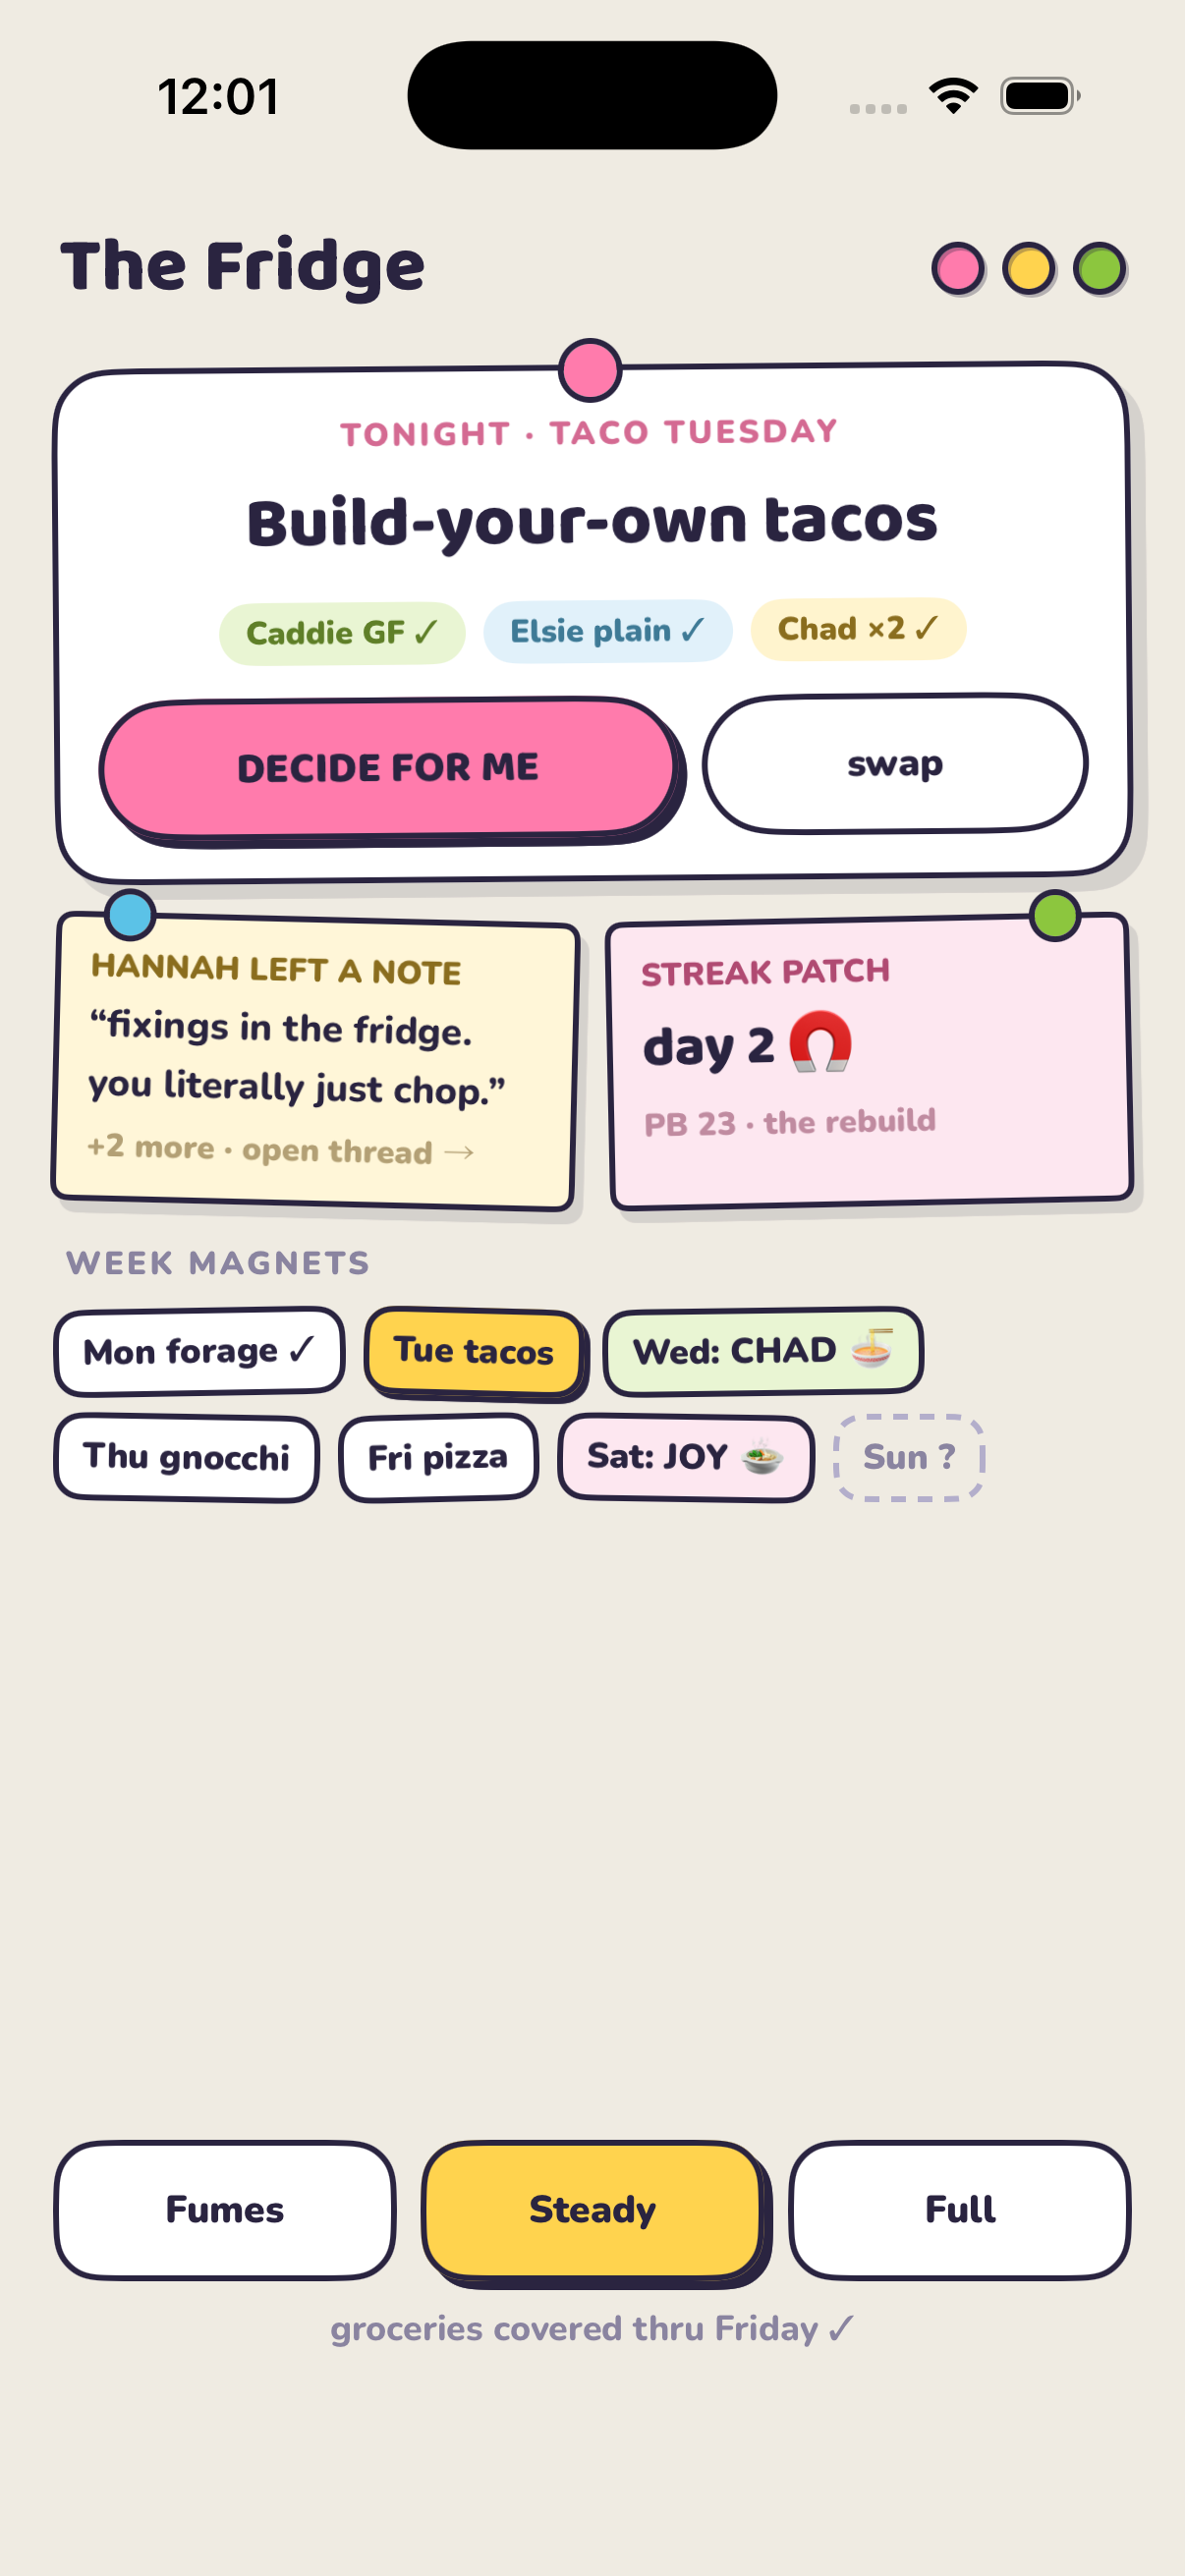
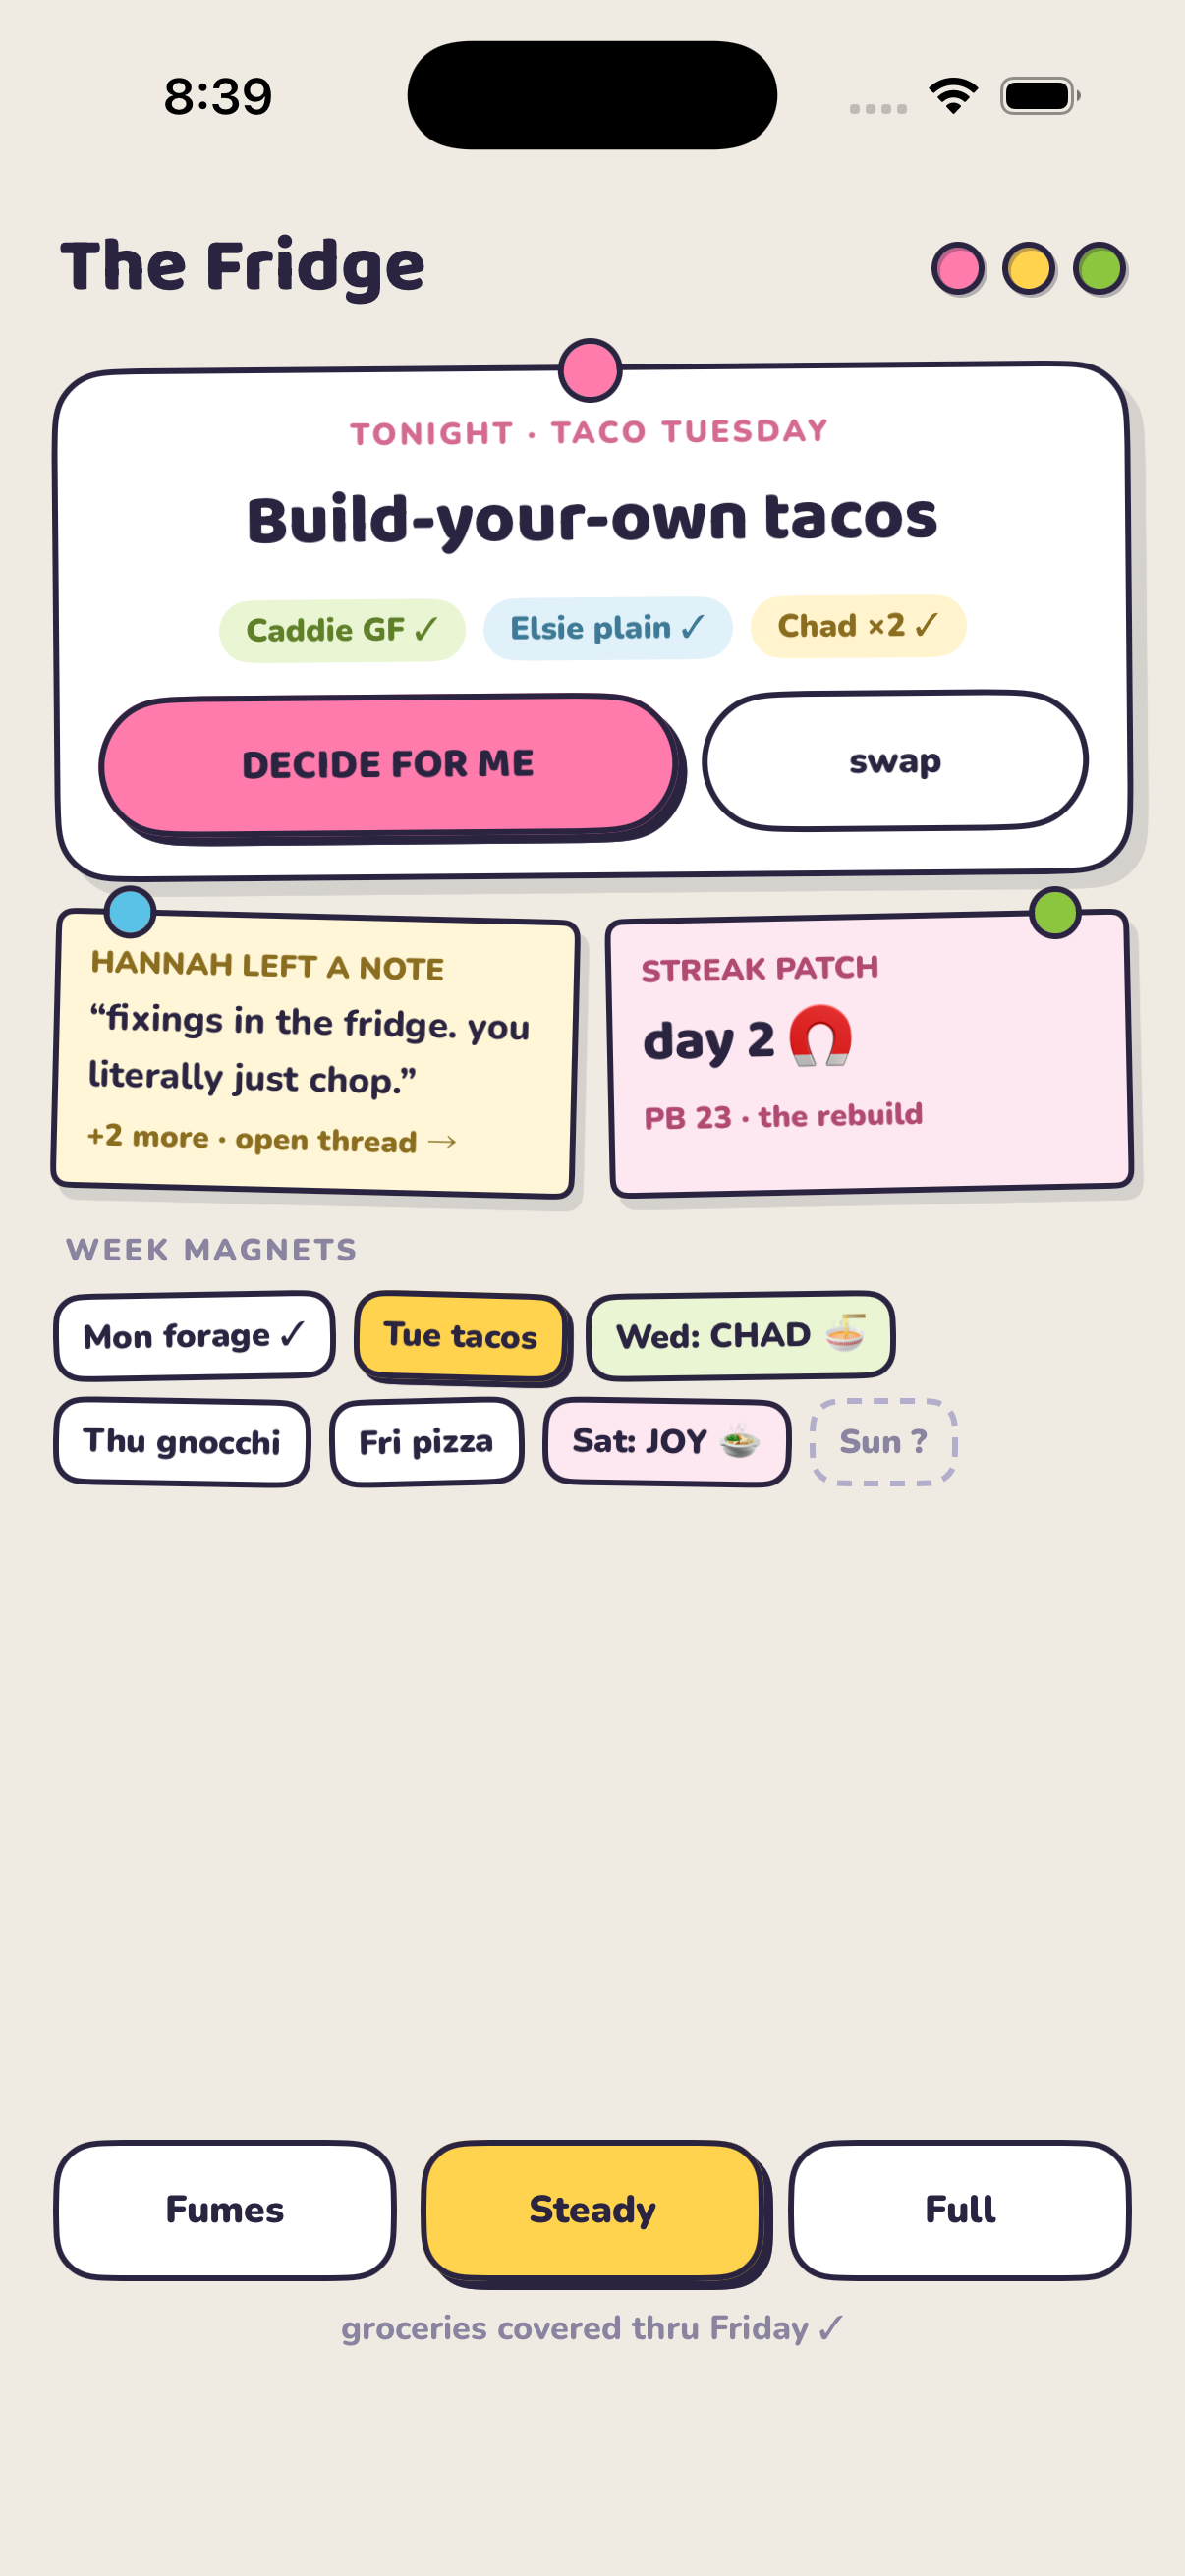
Darken muted labels + streak checkmarks for readability
Mockup's labelMuted values measured ~2.4:1 on their tints; muted lines now
use each slot's primary label (~4.4:1) and done-day ✓ is always ink.
Adjudicated with Maria 2026-07-08.

diff --git a/Moody/Screens/Home/FridgeHomeView.swift b/Moody/Screens/Home/FridgeHomeView.swift
@@ -151,7 +151,7 @@ struct FridgeHomeView: View {
                         .padding(.top, 3)
                     Text(note.more)
                         .font(.nunito(10.5, .black))
-                        .foregroundStyle(Palette.yellow.labelMuted)  // #B3A075
+                        .foregroundStyle(Palette.yellow.labelMuted)  // darkened, see Theme
                         .padding(.top, 5)
                 }
                 .frame(maxWidth: .infinity, maxHeight: .infinity, alignment: .topLeading)
@@ -164,9 +164,11 @@ struct FridgeHomeView: View {
     /// The mockup's streak note sits on the pink primary tint (#FDE7F0) while the
     /// shared StickyNote draws `slot.tintAlt`, so this slot carries the mockup's
     /// exact note colors (incl. the muted #C08BA0 subline).
+    // labelMuted darkened from the mockup's #C08BA0 (2.4:1 on the tint) to the
+    // slot label — readability adjudication, 2026-07-08.
     private static let streakNoteSlot = PaletteSlot(
         id: "her-1-streak-note", color: 0xFF7BAC, tint: 0xFDE7F0, tintAlt: 0xFDE7F0,
-        label: 0xB04A72, labelMuted: 0xC08BA0)
+        label: 0xB04A72)
 
     private var streakNote: some View {
         Button { onOpenStreaks?() } label: {

diff --git a/Moody/DesignSystem/Theme.swift b/Moody/DesignSystem/Theme.swift
@@ -76,8 +76,10 @@ enum Palette {
                                   label: 0xD46A92, labelMuted: 0xB04A72)
     static let green = PaletteSlot(id: "her-2", color: 0x8CC63E, tint: 0xE9F5D3,
                                    label: 0x5F7F28, labelMuted: 0x6B8A2E)
+    // labelMuted deliberately darkened from the mockup's #B3A075 (2.4:1 on the
+    // tint) to the primary label — readability adjudication, 2026-07-08.
     static let yellow = PaletteSlot(id: "her-3", color: 0xFFD34E, tint: 0xFFF4CE, tintAlt: 0xFFF6D8,
-                                    label: 0x8A6D1E, labelMuted: 0xB3A075)
+                                    label: 0x8A6D1E)
     static let blue = PaletteSlot(id: "her-4", color: 0x5BC2E7, tint: 0xE1F1FA,
                                   label: 0x3E7A96)
     static let purple = PaletteSlot(id: "her-5", color: 0x9B7EDE, tint: 0xEFE8FA,

diff --git a/Moody/Screens/Streaks/StreaksView.swift b/Moody/Screens/Streaks/StreaksView.swift
@@ -142,9 +142,11 @@ private struct StreaksDayTile: View {
         switch plan.kind {
         case .done:
             let slot = Self.fills[plan.day.rawValue % Self.fills.count]
+            // Ink ✓ on every fill (white measured ~2:1 on the mid-tone slots) —
+            // readability adjudication, 2026-07-08.
             Text("✓")
                 .font(.nunito(15, .black))
-                .foregroundStyle(slot.id == Palette.yellow.id ? Theme.ink : .white)
+                .foregroundStyle(Theme.ink)
                 .frame(maxWidth: .infinity, maxHeight: .infinity)
                 .inkCard(background: slot.color, radius: 12)
         case .rest: